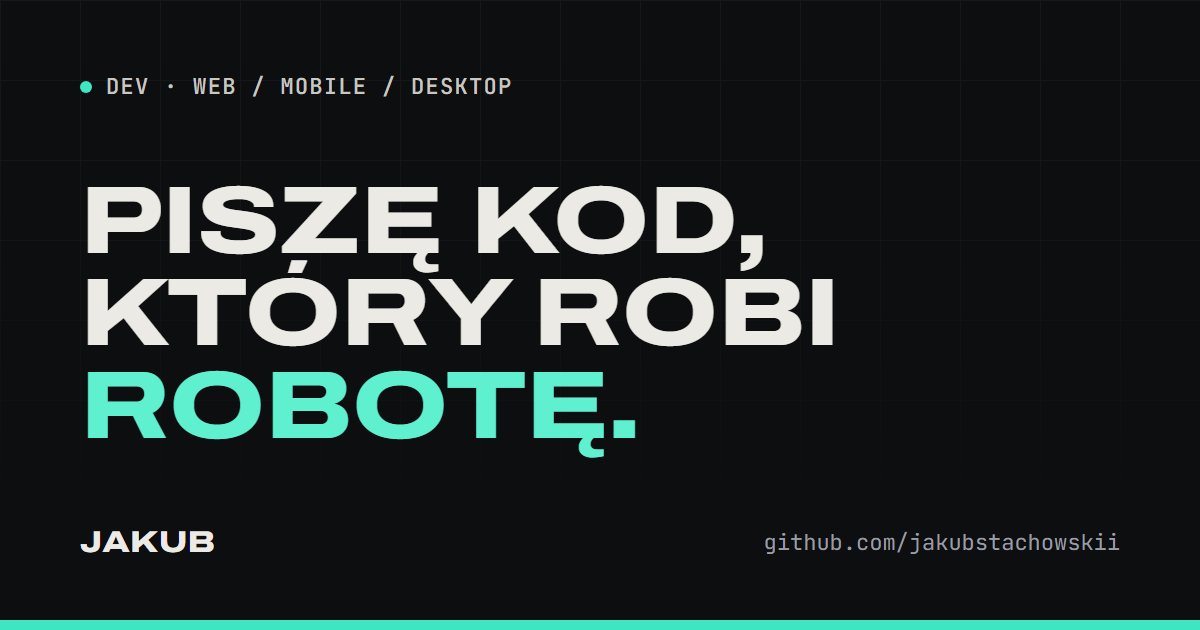
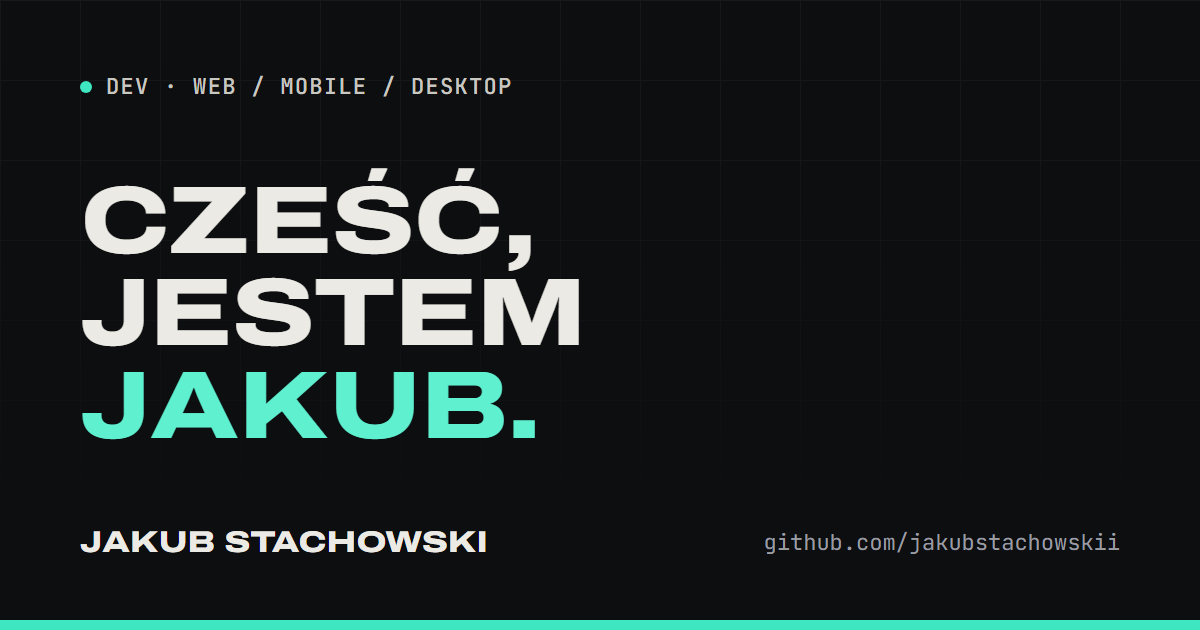
feat: obrazek podglądu strony z powitaniem z hero zamiast starego hasła

Changed region(s): [[0.0617, 0.2714, 0.7092, 0.7238], [0.185, 0.8444, 0.4317, 0.8746]]

diff --git a/scripts/brand.html b/scripts/brand.html
@@ -112,8 +112,8 @@
 </style>
 <div id="og">
   <div class="top"><span class="dot"></span>DEV · WEB / MOBILE / DESKTOP</div>
-  <h1 class="h">Piszę kod,<br />który robi<br /><span>robotę.</span></h1>
-  <div class="bar"><span class="brand">Jakub</span><span>github.com/jakubstachowskii</span></div>
+  <h1 class="h">Cześć,<br />jestem<br /><span>Jakub.</span></h1>
+  <div class="bar"><span class="brand">Jakub Stachowski</span><span>github.com/jakubstachowskii</span></div>
   <div class="tape"></div>
 </div>
 <img id="icon" src="../public/favicon.svg" alt="" />
